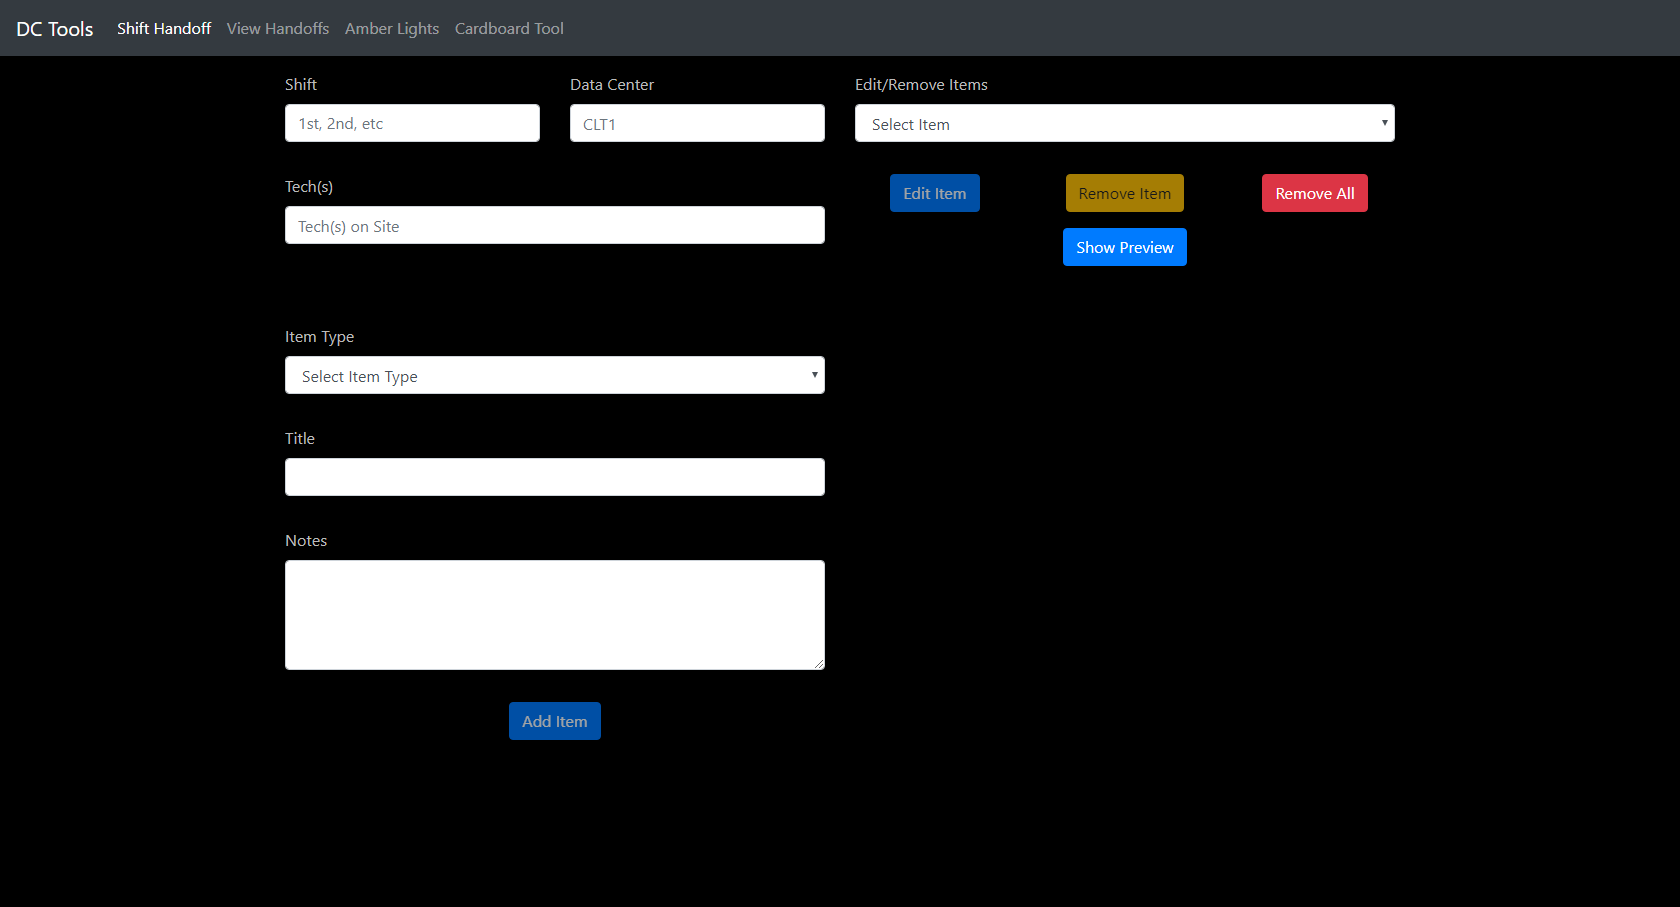
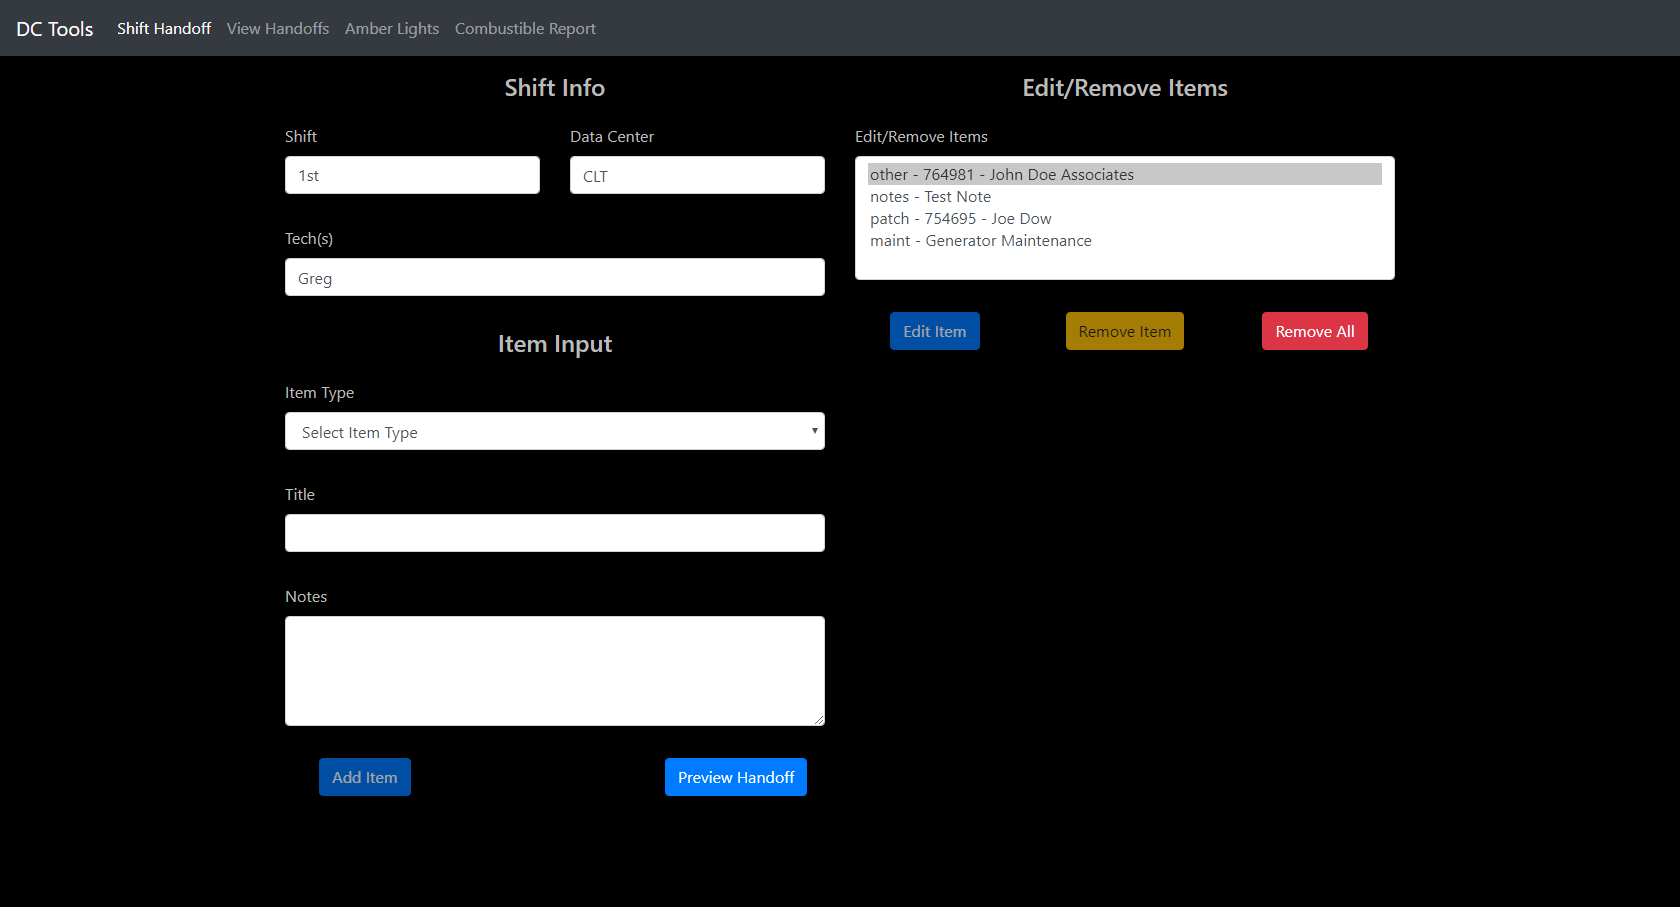
Updating readme.

diff --git a/README.md b/README.md
@@ -21,15 +21,19 @@ Contains descriptions/usage for each of the pages.
 
 ### Shift Handoff
 ![Shift Handoff](/imgs/handoff.png)
-Users can can use this to enter the items they have worked on throughout their shift.  Clicking the "Show Preview" Button will display the Shift Handoff template with the contents of each item that the user has listed.
+Users will use this to enter the items they have worked on throughout their shift.  Clicking the "Preview Handoff" Button will display the Shift Handoff template with the contents of each item that has been listed.
 
 ![Handoff_Preview](/imgs/handoff_preview.png)
 The user can then click "Send Report" to save their completed handoff to the database.  The application will then copy the handoff to the clipboard, and open a new email using the user's default email client.  The Handoff can then be pasted into the email body, and sent to any recipient.
+
+## View Handoff
+![View_Handoff](/imgs/viewHandoff.png)
+This page is to view saved handoffs.  The list can be filtered by Shift, Data Center, and Date.  Selecting a result will show the handoff similarly to the above preview.
 
 ### Amber Lights
 ![Amber Lights](/imgs/amber.png)
 Periodically, the Data Center Technician is to check servers in the Data Center for Amber Lights, which typically indicate an active issue with the server.  The customer is then contacted via ticket if any are found.  This tool provides a simple form that accepts user input and stores it to the database.  The user can then recall the data, in template form, to be sent to the customer via their ticketing system.
 
-### Cardboard Report
+### Combusitble Report
 ![Cardboard Report](/imgs/cardboard.png)
-This tool has roughly the same functionality as the Amber Light tool.  Every so often, the Data Center is to be audited for combustible materials stored in the cabinets.  This tool provides a way to store the information for any offending cabinets, and allows the user to recall the information in template form, which can then be sent to the customer via a ticket.
+This tool has roughly the same functionality as the Amber Light tool.  Typically, the Data Center is to be audited for combustible materials stored in the cabinets.  This tool provides a way to store the information for any offending cabinets, and allows the user to recall the information in template form, which can then be sent to the customer via a ticket.
